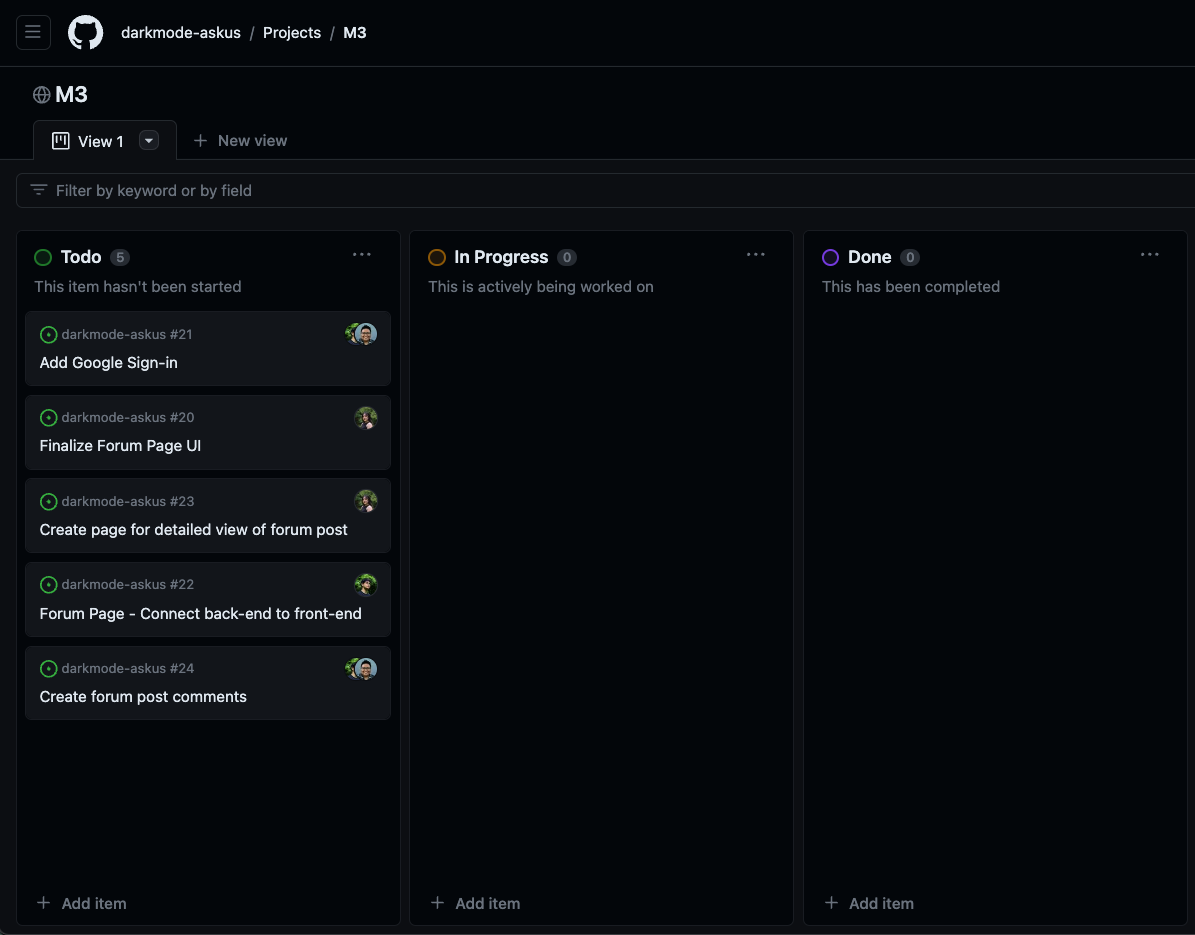
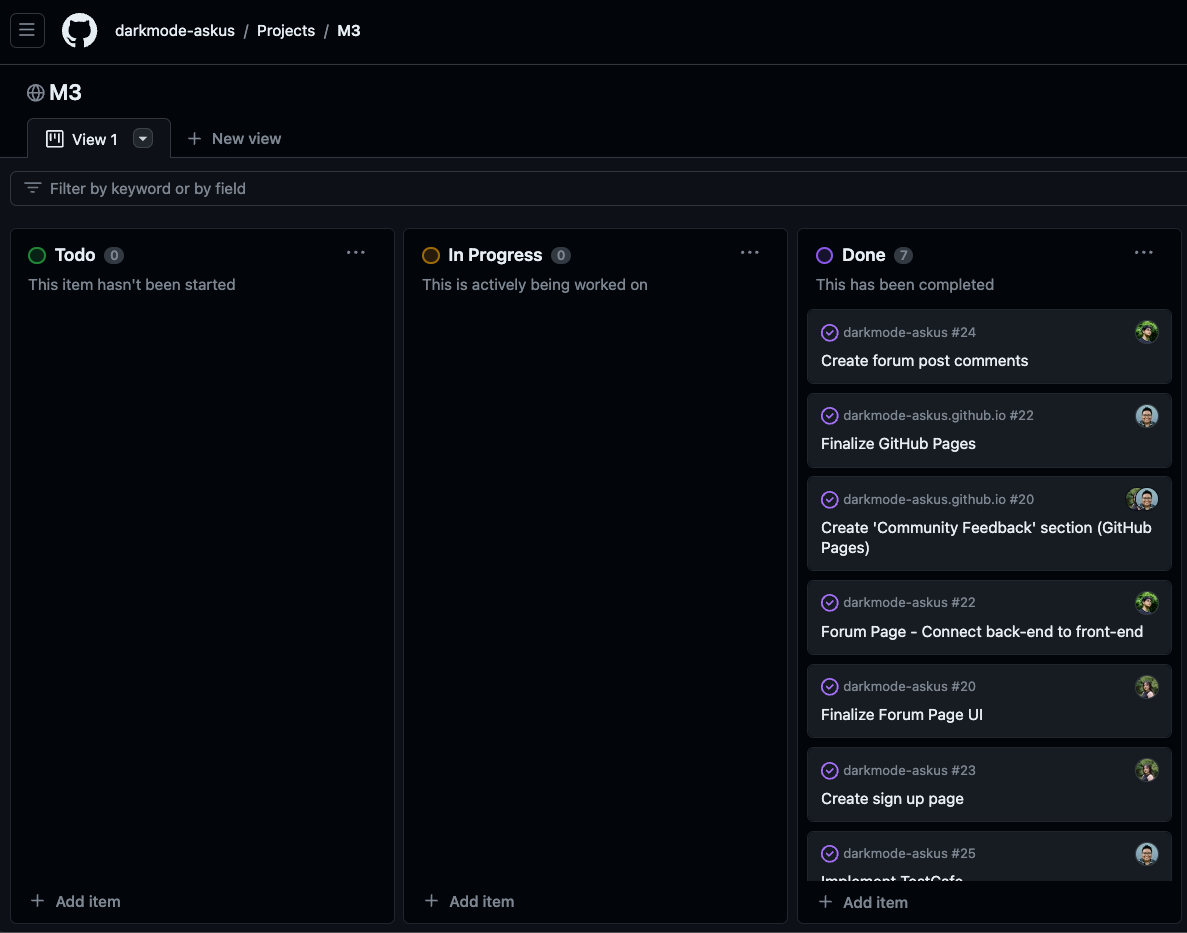
FInished GitHub Pages

diff --git a/index.md b/index.md
@@ -17,7 +17,11 @@
 <div align="center">
     <img src="public/Hoku-logo.png" width="200">
     <h1>Ask Hoku</h1>
-    <h3>Team DarkMode - ITS AskUs (HACC)</h3>
+    <h4>Team DarkMode - ITS AskUs (HACC)</h4>
+
+[![darkmode-askus](https://github.com/darkmode-askus/darkmode-askus/actions/workflows/ci.yml/badge.svg)](https://github.com/darkmode-askus/darkmode-askus/actions/workflows/ci.yml)
+
+
 </div>
 
 # Overview
@@ -95,12 +99,6 @@ $ meteor npm run start
 ```
 
 The application will appear at [http://localhost:3000](http://localhost:3000) if all goes well.
-
-If any errors occur during the installation process and you are unable to run the application at [http://localhost:3000](http://localhost:3000), then simply stop the application from running and start it again by following these commands:
-```
-$ control+c
-$ meteor npm run start
-```
 
 ## Reset project
 
@@ -188,7 +186,7 @@ The goal of Milestone 2 is to focus on creating the Forums page and adding a 'Ad
 
 ### Milestone 3:
 
-The goal of Milestone 3 is to finalize the Forums page and implement Google OAuth for users to login with their hawaii.edu account.
+The goal of Milestone 3 is to finalize the Forums page by cleaning up the UI and fixing any issues in the backend. Users are able to add a forum or edit and delete their own forum posts. Admins can even delete any forum posts if it is inappropriate. We also finalized our GitHub Pages.
 
 #### Milestone 3 was managed using [GitHub Project Board M3](https://github.com/orgs/darkmode-askus/projects/8):
 
